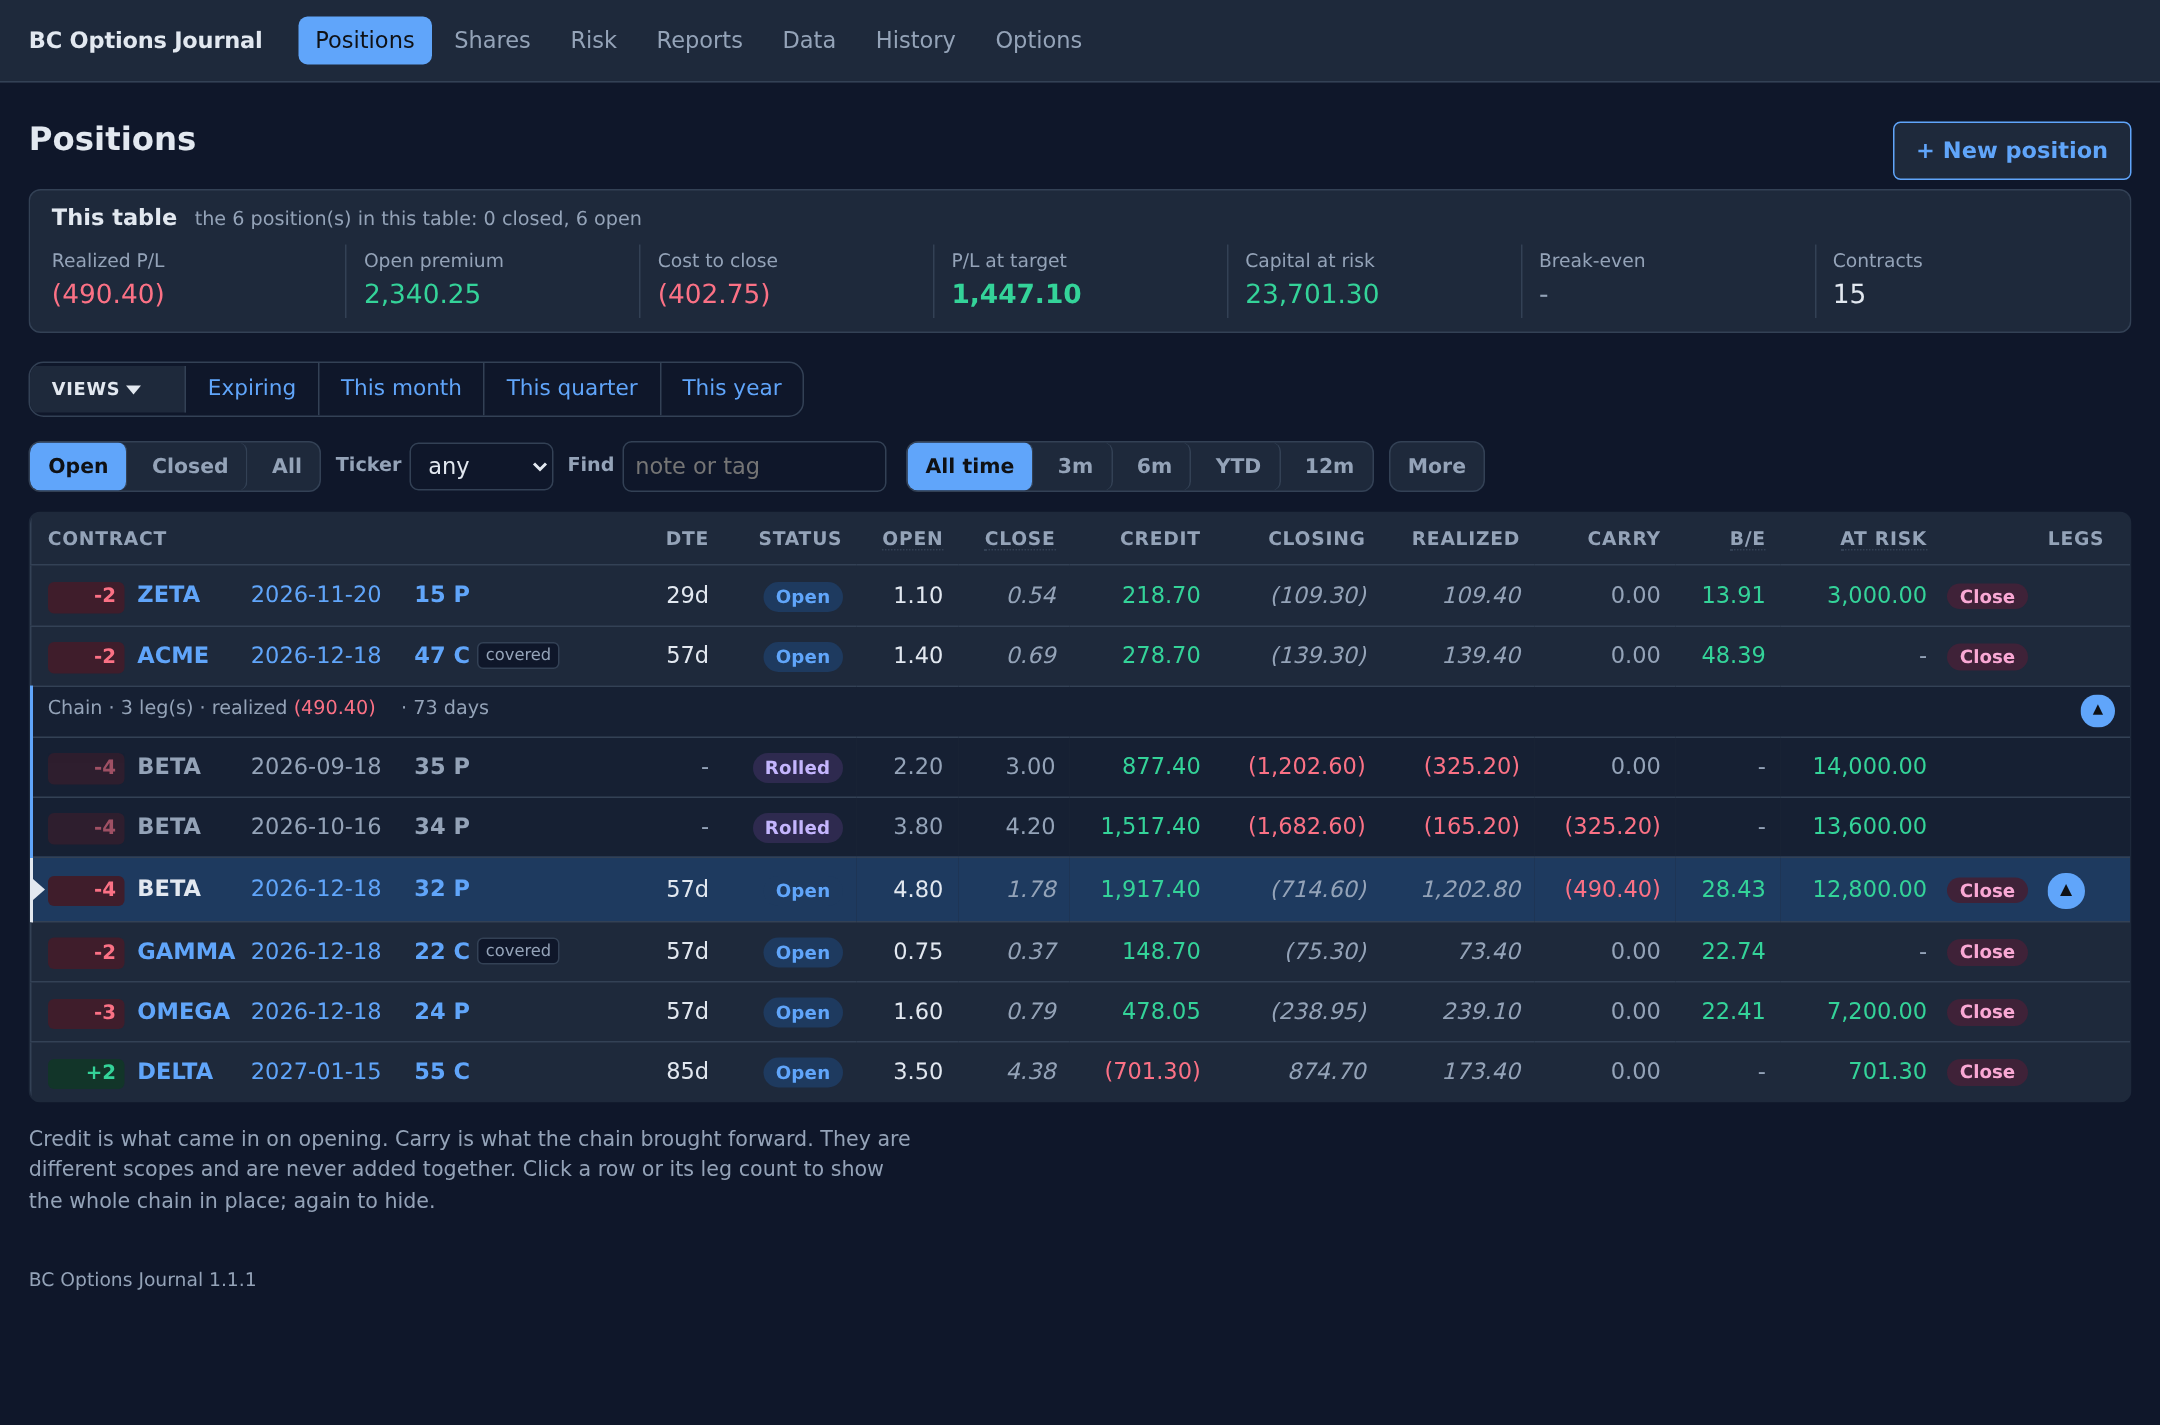
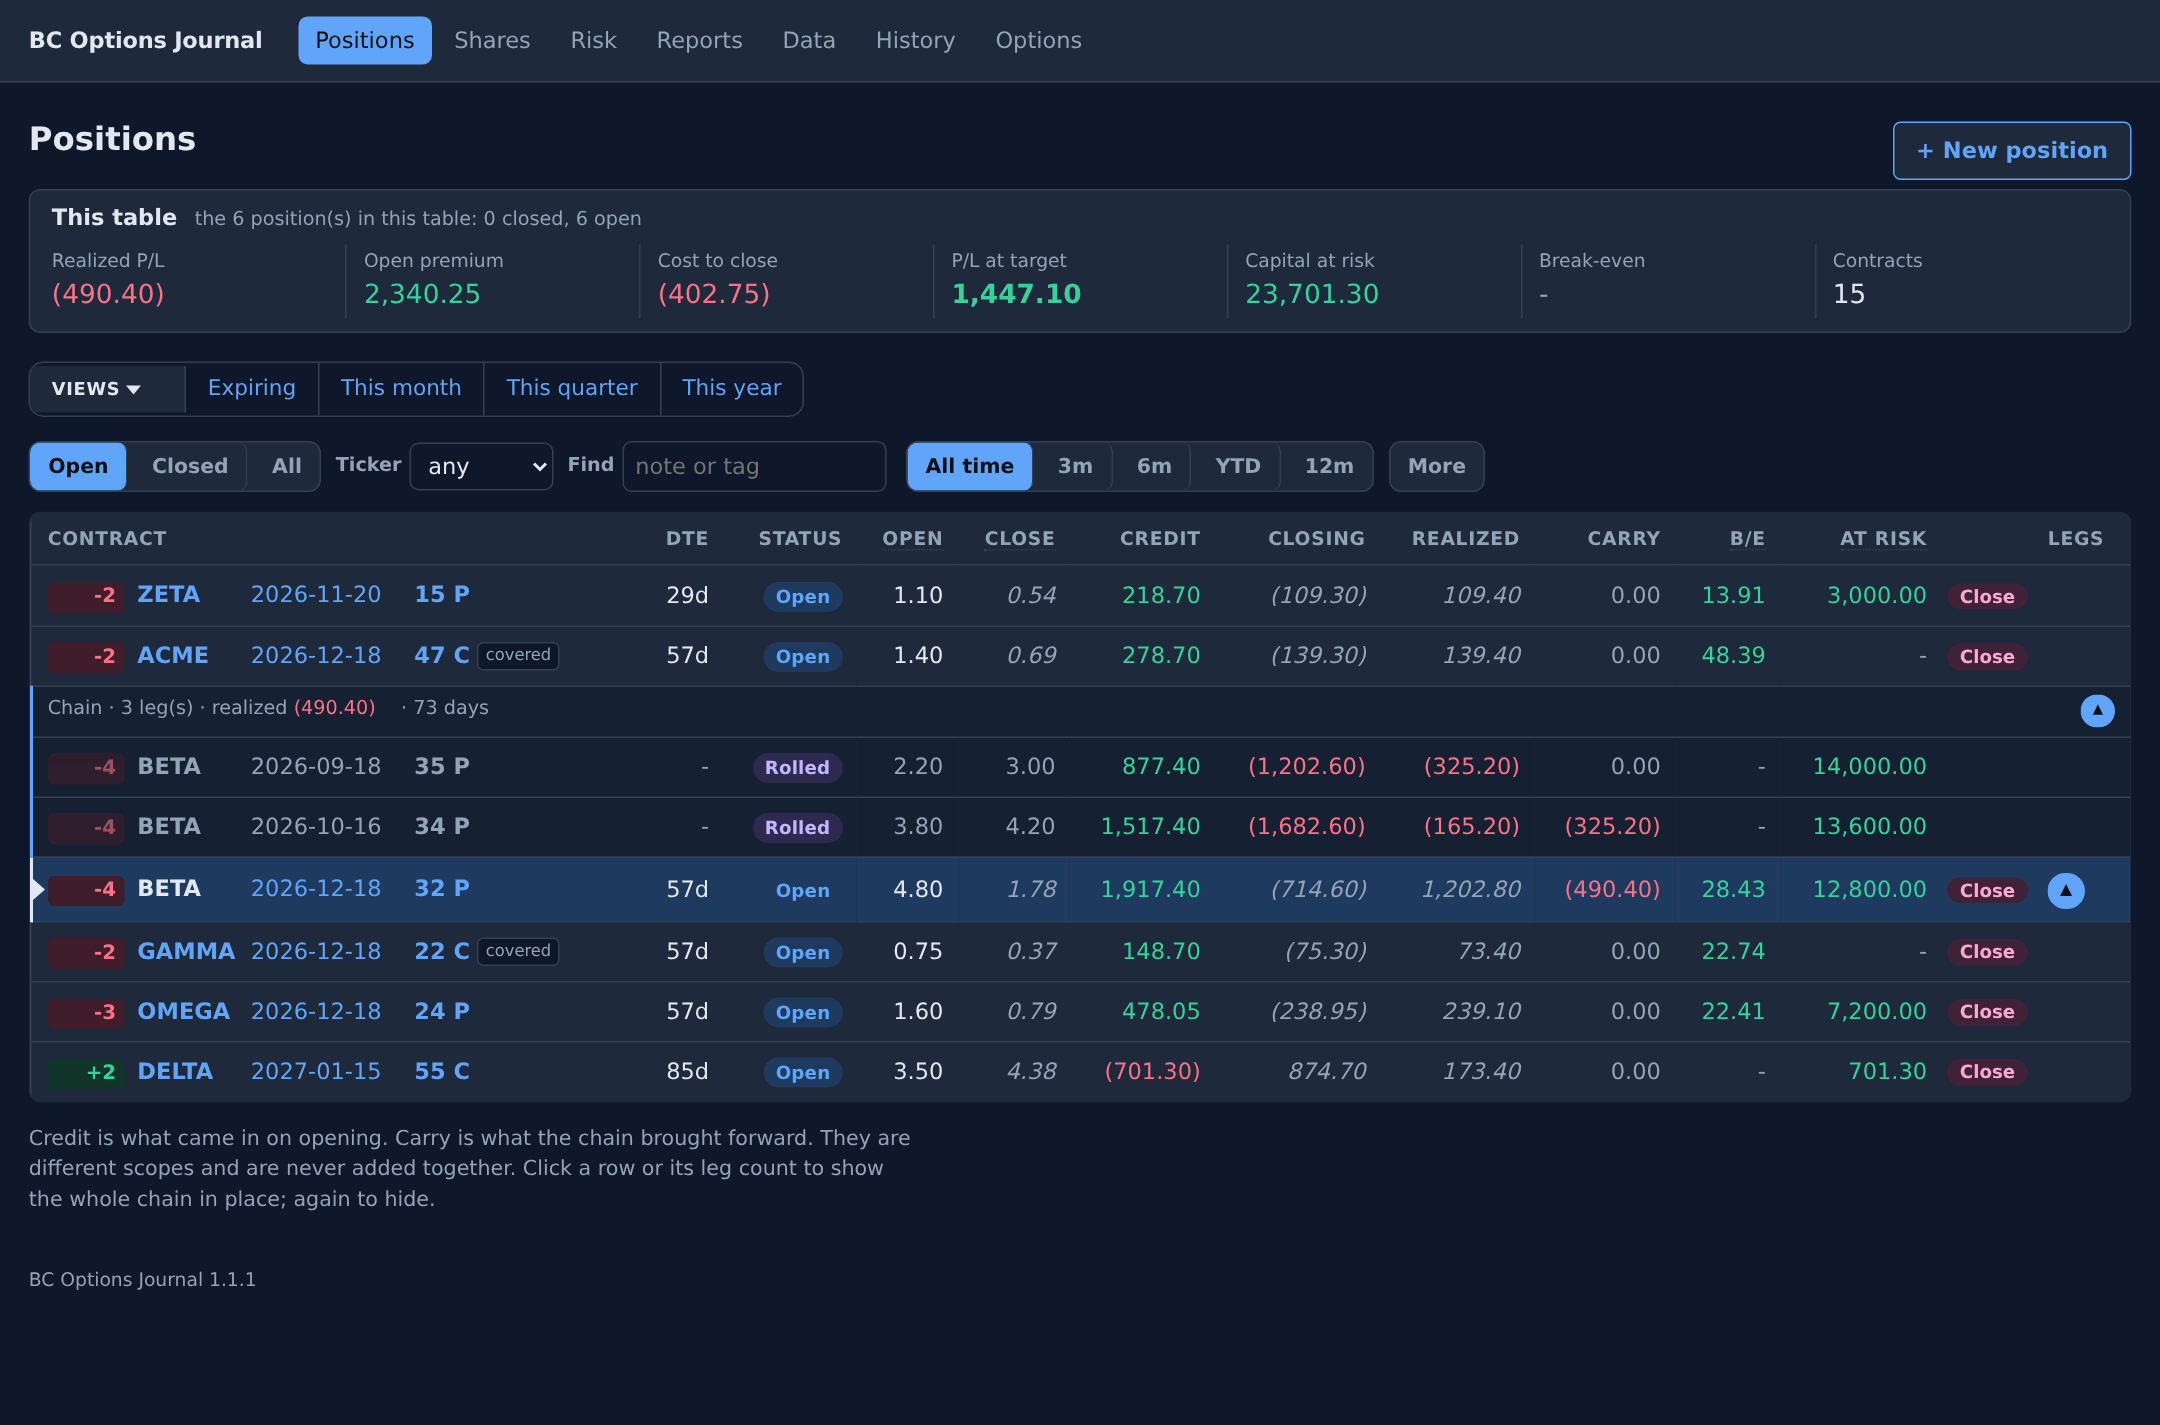
new themes added

diff --git a/bcoj/web/static.py b/bcoj/web/static.py
@@ -9,8 +9,6 @@ disabled -- plain POSTs and redirects -- because the core job is recording
 trades, and that should never depend on a script.
 """
 
-THEMES = ("system", "light", "dark", "paper", "slate")
-
 # One row per token, one column per palette. Every palette defines every
 # token, so no colour can fall through to another theme's value.
 _LIGHT = {
@@ -57,7 +55,58 @@ _SLATE = dict(_DARK, **{
     "amber": "#fcd34d", "amber-tint": "#3a3218",
     "chain-bg": "#162033", "current-tint": "#33301a",
 })
-PALETTES = {"light": _LIGHT, "dark": _DARK, "paper": _PAPER, "slate": _SLATE}
+_FOREST = dict(_DARK, **{
+    "bg": "#101b17", "panel": "#192a23", "ink": "#e0eee5", "dim": "#a0b7a9",
+    "line": "#344b3e", "accent": "#a3d9b3", "on-accent": "#102018",
+    "accent-tint": "#254333", "warn-bg": "#2c2919", "warn-line": "#776433",
+    "ok-bg": "#152d20", "neg-tint": "#402227", "pos-tint": "#193824",
+    "roll": "#c5b5ea", "roll-tint": "#352a48", "closed": "#f1a9c6", "closed-tint": "#402637",
+    "amber": "#e6c878", "amber-tint": "#3b3420",
+    "chain-bg": "#14221b", "current-tint": "#343520",
+})
+_ESPRESSO = dict(_DARK, **{
+    "bg": "#1b1714", "panel": "#2b231f", "ink": "#efe5d8", "dim": "#b9a99a",
+    "line": "#4c3c31", "accent": "#e4b080", "on-accent": "#24180e",
+    "accent-tint": "#4a3323", "warn-bg": "#35291a", "warn-line": "#8f6a39",
+    "ok-bg": "#1c3021", "neg-tint": "#442323", "pos-tint": "#1d3527",
+    "roll": "#c8b3e6", "roll-tint": "#3b2c45", "closed": "#e9a5bb", "closed-tint": "#452a34",
+    "amber": "#ecc479", "amber-tint": "#45371f",
+    "chain-bg": "#231d19", "current-tint": "#403524",
+})
+_PLUM = dict(_DARK, **{
+    "bg": "#1d1424", "panel": "#2b2034", "ink": "#f0e7f4", "dim": "#b8a5c1",
+    "line": "#4b3658", "accent": "#c9a7eb", "on-accent": "#21132c",
+    "accent-tint": "#422c55", "warn-bg": "#33291e", "warn-line": "#896a3c",
+    "ok-bg": "#1c3028", "neg-tint": "#45242f", "pos-tint": "#1c372c",
+    "roll": "#b9b4ff", "roll-tint": "#34304f", "closed": "#f4abc9", "closed-tint": "#4b2942",
+    "amber": "#e8c87d", "amber-tint": "#443522",
+    "chain-bg": "#241a2d", "current-tint": "#3e3044",
+})
+_GRAPHITE = dict(_DARK, **{
+    "bg": "#15191b", "panel": "#22282b", "ink": "#e4ecee", "dim": "#a4b1b7",
+    "line": "#3b464b", "accent": "#68c9c2", "on-accent": "#102321",
+    "accent-tint": "#214440", "warn-bg": "#302b1d", "warn-line": "#82703e",
+    "ok-bg": "#193028", "neg-tint": "#3d242a", "pos-tint": "#1d352b",
+    "roll": "#c0b4ed", "roll-tint": "#343047", "closed": "#eba8c4", "closed-tint": "#422a36",
+    "amber": "#e5c87e", "amber-tint": "#3d3524",
+    "chain-bg": "#1b2023", "current-tint": "#283e3c",
+})
+_HIGH_CONTRAST = dict(_DARK, **{
+    "bg": "#000000", "panel": "#101010", "ink": "#ffffff", "dim": "#cecece",
+    "line": "#858585", "pos": "#70f0a4", "neg": "#ff9d9d", "accent": "#ffe66d",
+    "on-accent": "#000000", "accent-tint": "#383000",
+    "warn-bg": "#282200", "warn-line": "#ffe66d", "ok-bg": "#002d1c",
+    "neg-tint": "#400b12", "pos-tint": "#00321a",
+    "roll": "#d3b2ff", "roll-tint": "#2b1649", "closed": "#ffb3d4", "closed-tint": "#45132b",
+    "amber": "#ffdb76", "amber-tint": "#3c2b00",
+    "chain-bg": "#080808", "current-tint": "#302b00",
+})
+PALETTES = {
+    "light": _LIGHT, "dark": _DARK, "paper": _PAPER, "slate": _SLATE,
+    "forest": _FOREST, "espresso": _ESPRESSO, "plum": _PLUM,
+    "graphite": _GRAPHITE, "high-contrast": _HIGH_CONTRAST,
+}
+THEMES = ("system", *PALETTES)
 
 
 def _tokens(palette: dict) -> str:

diff --git a/bcoj/web/routes.py b/bcoj/web/routes.py
@@ -2104,7 +2104,7 @@ def options_page(conn, db_path: str, token: str, query) -> tuple[int, str]:
     theme = r.form("/options/theme",
                    '<select name="theme" id="f_theme" aria-label="Theme">'
                    + "".join(f'<option value="{n}"{" selected" if n == store.get_setting(conn, "theme", "system") else ""}>'
-                             f'{"System (follow the device)" if n == "system" else n.capitalize()}</option>'
+                             f'{"System (follow the device)" if n == "system" else n.replace("-", " ").capitalize()}</option>'
                              for n in THEMES)
                    + "</select>",
                    token, submit="Save", cls="row theme")

diff --git a/bcoj/__init__.py b/bcoj/__init__.py
@@ -1,3 +1,3 @@
 """BC Options Trade Journal."""
 
-__version__ = "1.1.0"
+__version__ = "1.1.1"

diff --git a/README.md b/README.md
@@ -40,18 +40,27 @@ before the ticker's wheel total.
 
 ### Themes
 
-The views above show slate for positions and rolls, and paper for shares.
-Dark provides another option for the same workflows. The System setting
-follows the device's light or dark preference.
+Nine palettes, shown with the same synthetic trades. Select a preview to see
+the full-size screenshot. The System setting follows the device's light or
+dark preference.
 
-<details>
-<summary>Compare slate, dark, and paper</summary>
-
-| Slate | Dark | Paper |
-| --- | --- | --- |
-| [![Slate theme](docs/screenshots/positions.png)](docs/screenshots/positions.png) | [![Dark theme](docs/screenshots/positions-dark.png)](docs/screenshots/positions-dark.png) | [![Paper theme](docs/screenshots/positions-paper.png)](docs/screenshots/positions-paper.png) |
-
-</details>
+<table>
+  <tr>
+    <td align="center" width="33%"><strong>Slate</strong><br><a href="docs/screenshots/positions.png"><img src="docs/screenshots/positions.png" alt="Positions in slate" width="280"></a></td>
+    <td align="center" width="33%"><strong>Forest</strong><br><a href="docs/screenshots/positions-forest.png"><img src="docs/screenshots/positions-forest.png" alt="Positions in forest" width="280"></a></td>
+    <td align="center" width="33%"><strong>Espresso</strong><br><a href="docs/screenshots/positions-espresso.png"><img src="docs/screenshots/positions-espresso.png" alt="Positions in espresso" width="280"></a></td>
+  </tr>
+  <tr>
+    <td align="center"><strong>Graphite</strong><br><a href="docs/screenshots/positions-graphite.png"><img src="docs/screenshots/positions-graphite.png" alt="Positions in graphite" width="280"></a></td>
+    <td align="center"><strong>Plum</strong><br><a href="docs/screenshots/positions-plum.png"><img src="docs/screenshots/positions-plum.png" alt="Positions in plum" width="280"></a></td>
+    <td align="center"><strong>Dark</strong><br><a href="docs/screenshots/positions-dark.png"><img src="docs/screenshots/positions-dark.png" alt="Positions in dark" width="280"></a></td>
+  </tr>
+  <tr>
+    <td align="center"><strong>Paper</strong><br><a href="docs/screenshots/positions-paper.png"><img src="docs/screenshots/positions-paper.png" alt="Positions in paper" width="280"></a></td>
+    <td align="center"><strong>High contrast</strong><br><a href="docs/screenshots/positions-high-contrast.png"><img src="docs/screenshots/positions-high-contrast.png" alt="Positions in high contrast" width="280"></a></td>
+    <td align="center"><strong>Light</strong><br><a href="docs/screenshots/positions-light.png"><img src="docs/screenshots/positions-light.png" alt="Positions in light" width="280"></a></td>
+  </tr>
+</table>
 
 ## Run locally
 
